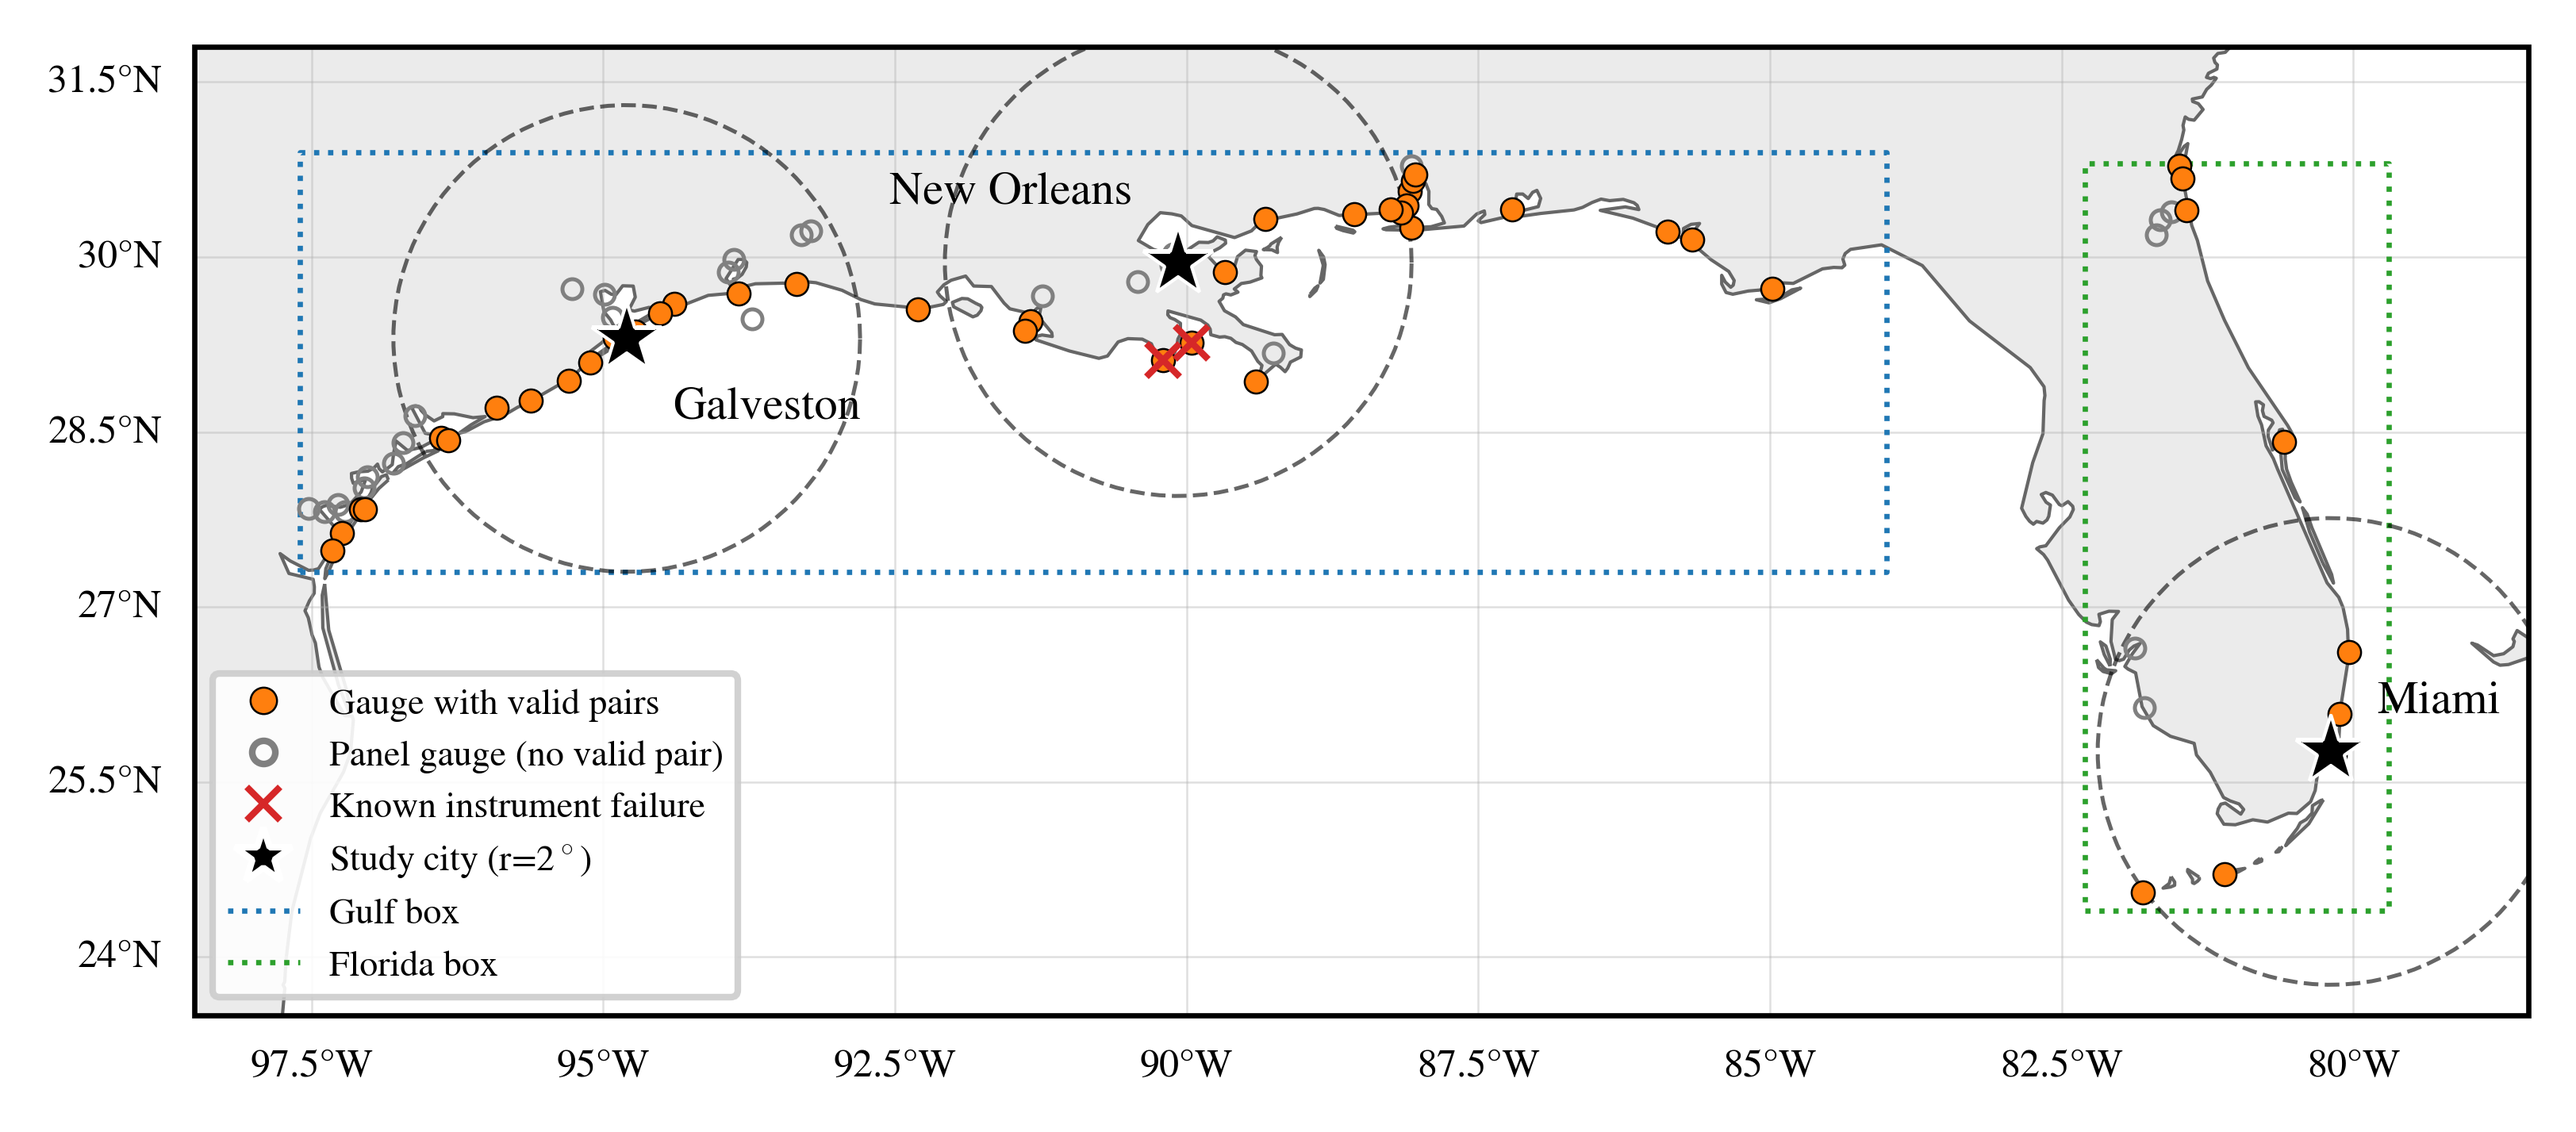
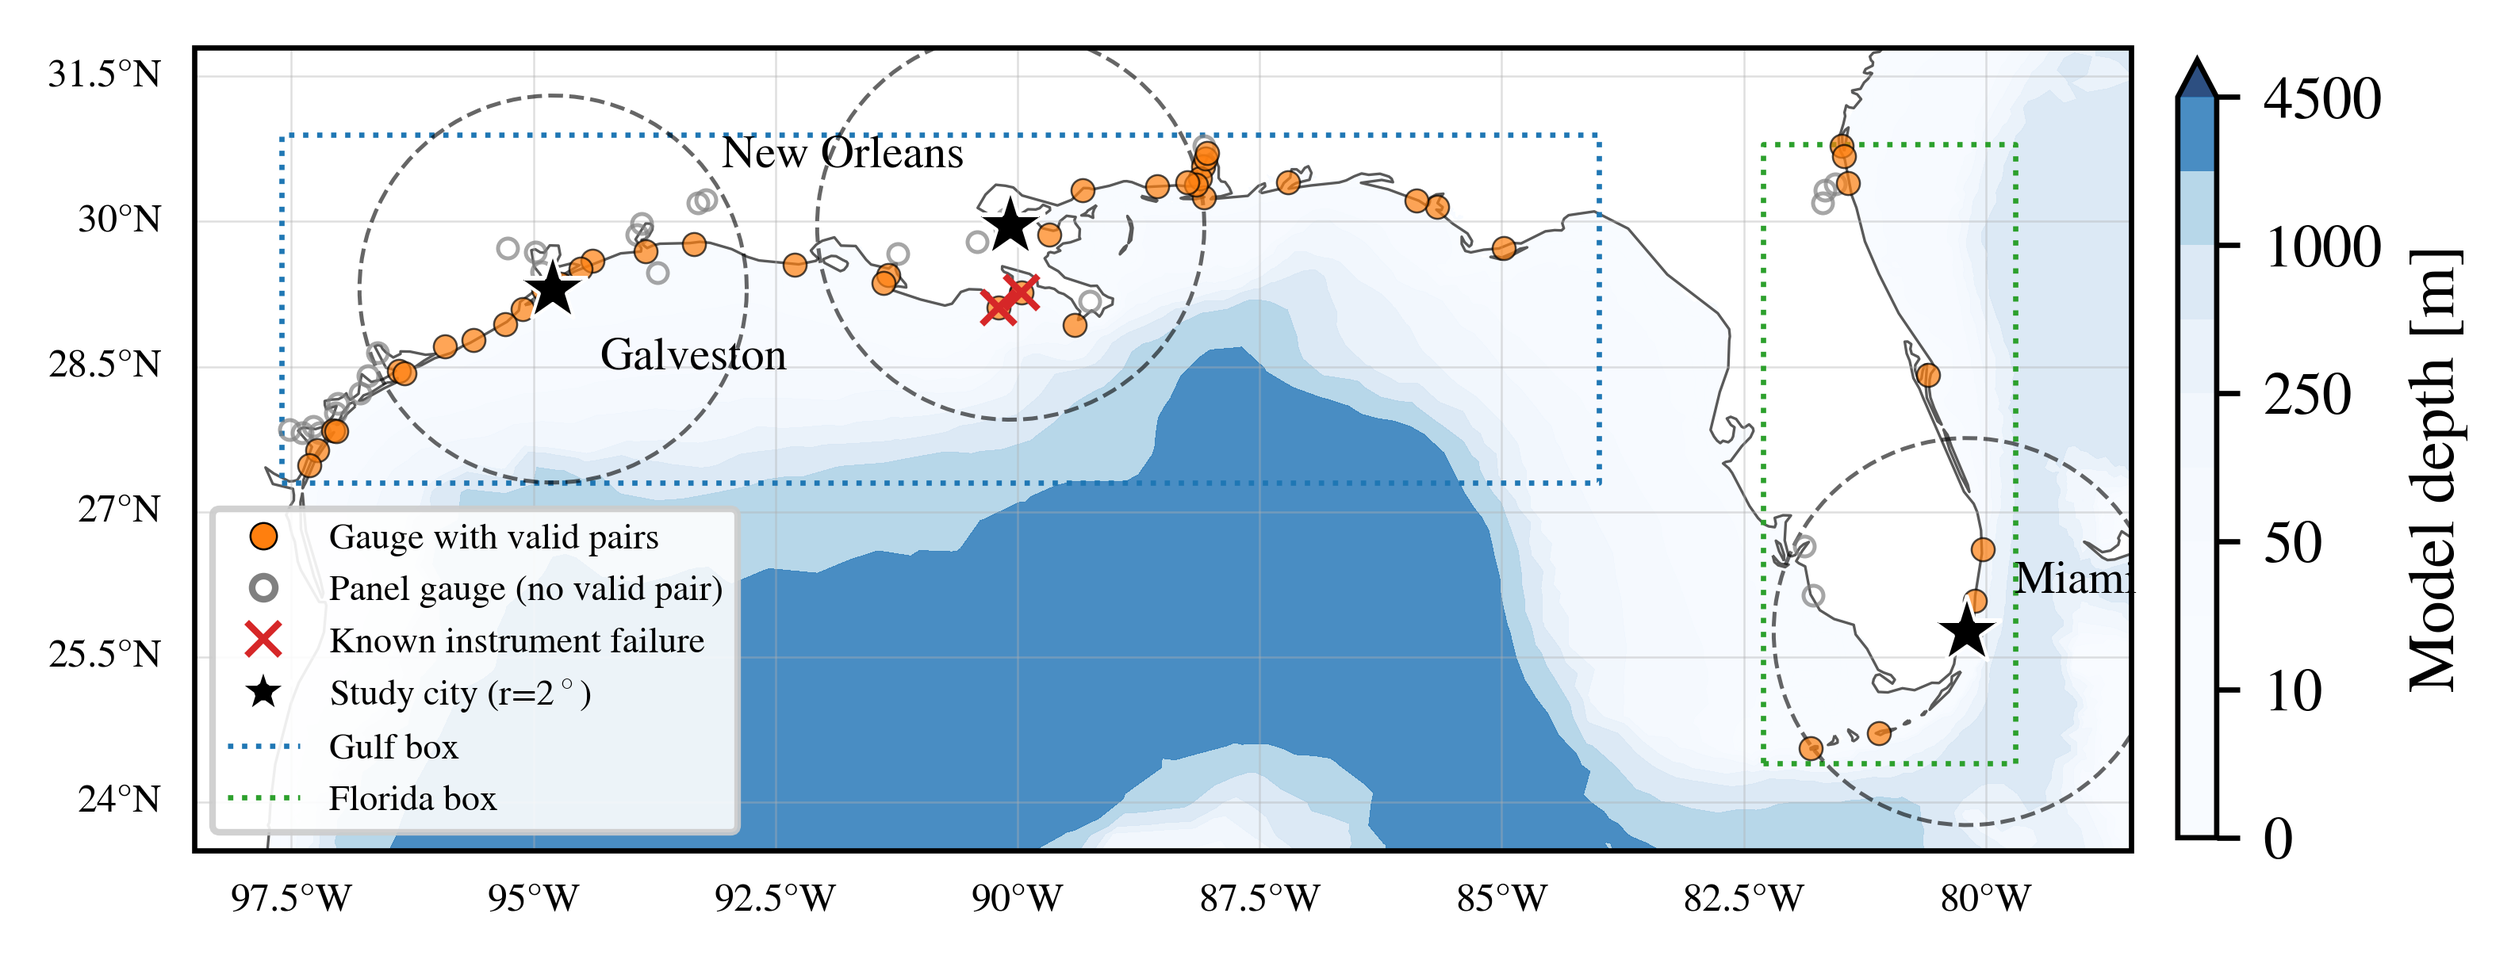
eval: per-city named-gauge maps on model bathymetry (validate.city_maps)
- plot_city_gauge_maps: one zoomed map per study city, every gauge named
  (cluster-indexed label ladder), valid/no-pair/failed markers at alpha 0.7
- _read_fort14 + _draw_mesh_bathymetry: fort.14.mid depth as the base layer
  of BOTH map types (tricontourf, Blues, model land gray, faint element
  edges on the zoomed maps) -- the maps now show model features, not just
  geography: unmeshed water bodies render white (Lake Pontchartrain!),
  which visually explains why its gauges contribute no valid pairs, and the
  narrow Florida shelf shows why Miami barely surges
- marker alpha 0.7 across both maps (overlapping stations stay visible)

CLI: python -m adforce.eval.validate validate.city_maps=true
Outputs: img/comp/val_gauge_map_{city}.png + <thesis>/img/comp_val_gauge_map_{city}.pdf

diff --git a/adforce/eval/validate.py b/adforce/eval/validate.py
@@ -596,6 +596,53 @@ CITY_POINTS = {
     "miami": (-80.1918, 25.7617),
 }
 
+_MESH_CACHE: Dict[str, tuple] = {}
+
+
+def _read_fort14(resolution: str = "mid"):
+    """EC95d mesh from ``adforce/setup/fort.14.<res>`` as
+    ``(lon, lat, depth, triangles)`` (depth positive down; 0-based tris)."""
+    if resolution in _MESH_CACHE:
+        return _MESH_CACHE[resolution]
+    from adforce.constants import SETUP_PATH
+
+    path = os.path.join(SETUP_PATH, f"fort.14.{resolution}")
+    with open(path) as f:
+        f.readline()  # description
+        ne, npt = (int(v) for v in f.readline().split()[:2])
+        nodes = np.loadtxt((next(f) for _ in range(npt)), usecols=(1, 2, 3))
+        tris = (
+            np.loadtxt((next(f) for _ in range(ne)), dtype=int, usecols=(2, 3, 4)) - 1
+        )
+    _MESH_CACHE[resolution] = (nodes[:, 0], nodes[:, 1], nodes[:, 2], tris)
+    return _MESH_CACHE[resolution]
+
+
+def _draw_mesh_bathymetry(ax, plt, transform=None, edges: bool = True):
+    """Model bathymetry as the map base: tricontourf of fort.14 depth (Blues,
+    shallow light -> deep dark), model land (depth <= 0) in gray, and faint
+    element edges so mesh resolution is visible. Returns the contour set for
+    a colorbar, or None when the mesh is unavailable."""
+    try:
+        lon, lat, depth, tris = _read_fort14()
+    except Exception as e:  # pragma: no cover - deck availability
+        print(f"(no fort.14 mesh layer: {e})")
+        return None
+    import matplotlib.tri as mtri
+
+    kw = {"transform": transform} if transform is not None else {}
+    tri = mtri.Triangulation(lon, lat, tris)
+    ax.tricontourf(  # model land
+        tri, depth, levels=[depth.min() - 1.0, 0.0], colors=["0.92"], zorder=0, **kw
+    )
+    levels = [0, 5, 10, 20, 50, 100, 250, 500, 1000, 2000, 4500]
+    cs = ax.tricontourf(
+        tri, depth, levels=levels, cmap="Blues", extend="max", zorder=0.4, alpha=0.85, **kw
+    )
+    if edges:
+        ax.triplot(tri, color="0.5", lw=0.08, alpha=0.25, zorder=0.6, **kw)
+    return cs
+
 
 def plot_failures(n_panels: int = 6, refresh: bool = False) -> None:
     """Per-city worst-case example panels (robustness view).
@@ -772,19 +819,20 @@ def plot_gauge_map(max_deg: float = 2.0) -> None:
 
         fig = plt.figure(figsize=get_dim(ratio=0.45))
         ax = plt.axes(projection=ccrs.PlateCarree())
-        ax.add_feature(cfeature.LAND.with_scale("50m"), facecolor="0.92", zorder=0)
         ax.add_feature(
-            cfeature.COASTLINE.with_scale("50m"), lw=0.5, edgecolor="0.4", zorder=1
+            cfeature.COASTLINE.with_scale("50m"), lw=0.4, edgecolor="0.35", zorder=1
         )
         gl = ax.gridlines(draw_labels=True, lw=0.3, alpha=0.4)
         gl.top_labels = gl.right_labels = False
         gl.xlabel_style = gl.ylabel_style = {"size": 6}
+        cs = _draw_mesh_bathymetry(ax, plt, transform=ccrs.PlateCarree(), edges=False)
     except Exception as e:  # pragma: no cover - cartopy/data availability
         print(f"(no cartopy coastline: {e})")
         fig, ax = plt.subplots(figsize=get_dim(ratio=0.45))
         ax.set_xlabel("Longitude [$^\\circ$E]")
         ax.set_ylabel("Latitude [$^\\circ$N]")
         ax.grid(alpha=0.3)
+        cs = _draw_mesh_bathymetry(ax, plt, edges=False)
 
     for box, label, color in (
         (C.GAUGE_BOX, "Gulf box", "tab:blue"),
@@ -809,9 +857,9 @@ def plot_gauge_map(max_deg: float = 2.0) -> None:
                 continue
             seen.add(sid)
             if sid in valid_sids:
-                ax.plot(lon, lat, "o", ms=3.5, color="tab:orange", mec="k", mew=0.3, zorder=4)
+                ax.plot(lon, lat, "o", ms=3.5, color="tab:orange", mec="k", mew=0.3, alpha=0.7, zorder=4)
             else:
-                ax.plot(lon, lat, "o", ms=3, mfc="none", mec="0.5", mew=0.6, zorder=3)
+                ax.plot(lon, lat, "o", ms=3, mfc="none", mec="0.5", mew=0.6, alpha=0.7, zorder=3)
             if sid in failed_sids:
                 ax.plot(lon, lat, "x", ms=5, color="tab:red", mew=1.0, zorder=5)
 
@@ -861,6 +909,8 @@ def plot_gauge_map(max_deg: float = 2.0) -> None:
     else:
         ax.set_xlim(-98.5, -78.5)
         ax.set_ylim(23.5, 31.8)
+    if cs is not None:
+        fig.colorbar(cs, ax=ax, shrink=0.75, pad=0.02, label="Model depth [m]")
     _savefig(
         fig,
         [
@@ -869,6 +919,121 @@ def plot_gauge_map(max_deg: float = 2.0) -> None:
         ],
     )
     plt.close(fig)
+
+
+def plot_city_gauge_maps(max_deg: float = 2.0) -> None:
+    """Per-city zoomed gauge maps with every gauge NAMED (reference figures).
+
+    One map per study city, extent = catchment circle + margin, each gauge
+    labelled with its CO-OPS name (orange = contributes valid pairs, open =
+    panel gauge without one, red cross = KNOWN_FAILED). Labels use a simple
+    greedy vertical stagger so dense clusters (e.g. the Mississippi coast)
+    stay legible.
+    """
+    csv = os.path.join(C.OUT_PATH, "val_summary.csv")
+    if not os.path.exists(csv):
+        raise SystemExit(f"{csv} not found: run `python -m adforce.eval.validate` first")
+    df = pd.read_csv(csv)
+    df["sid"] = df["sid"].astype(str)
+    valid_sids = set(df[df.valid.astype(bool)].sid)
+    failed_sids = {sid for _, sid in C.KNOWN_FAILED}
+    gauges = {
+        str(sid): (name, lat, lon)
+        for box in (C.GAUGE_BOX, C.FLORIDA_BOX)
+        for sid, name, lat, lon in gulf_gauges(box)
+    }
+
+    plt = _setup_plt()
+    from sithom.plot import get_dim
+
+    for city, (clo, cla) in CITY_POINTS.items():
+        try:
+            import cartopy.crs as ccrs
+            import cartopy.feature as cfeature
+
+            fig = plt.figure(figsize=get_dim(ratio=0.85))
+            ax = plt.axes(projection=ccrs.PlateCarree())
+            ax.add_feature(
+                cfeature.COASTLINE.with_scale("10m"), lw=0.5, edgecolor="0.35", zorder=1
+            )
+            gl = ax.gridlines(draw_labels=True, lw=0.3, alpha=0.4)
+            gl.top_labels = gl.right_labels = False
+            gl.xlabel_style = gl.ylabel_style = {"size": 6}
+            cs = _draw_mesh_bathymetry(ax, plt, transform=ccrs.PlateCarree(), edges=True)
+        except Exception as e:  # pragma: no cover
+            print(f"(no cartopy coastline: {e})")
+            fig, ax = plt.subplots(figsize=get_dim(ratio=0.85))
+            ax.grid(alpha=0.3)
+            cs = _draw_mesh_bathymetry(ax, plt, edges=True)
+
+        m = max_deg + 0.45
+        ax.plot(clo, cla, "*", ms=13, color="k", mec="w", mew=0.5, zorder=6)
+        theta = np.linspace(0, 2 * np.pi, 100)
+        ax.plot(
+            clo + max_deg * np.cos(theta),
+            cla + max_deg * np.sin(theta),
+            "k--",
+            lw=0.6,
+            alpha=0.6,
+            zorder=2,
+        )
+
+        # gauges in extent, sorted by latitude for the label stagger
+        local = sorted(
+            (
+                (sid, n, la, lo)
+                for sid, (n, la, lo) in gauges.items()
+                if abs(lo - clo) <= m and abs(la - cla) <= m
+            ),
+            key=lambda t: -t[2],
+        )
+        # cluster-indexed offset ladder: the k-th label inside a congested
+        # patch gets the k-th vertical offset, so e.g. the six Mobile-Bay
+        # gauges fan out instead of overprinting
+        DY = (3, 12, -11, 21, -20, 30, -29, 39)
+        placed = []
+        for sid, name, la, lo in local:
+            if sid in valid_sids:
+                ax.plot(lo, la, "o", ms=4, color="tab:orange", mec="k", mew=0.3, alpha=0.7, zorder=4)
+            else:
+                ax.plot(lo, la, "o", ms=3.5, mfc="none", mec="0.5", mew=0.6, alpha=0.7, zorder=3)
+            if sid in failed_sids:
+                ax.plot(lo, la, "x", ms=6, color="tab:red", mew=1.0, zorder=5)
+            near = sum(
+                1 for pla, plo in placed if abs(pla - la) < 0.16 and abs(plo - lo) < 1.6
+            )
+            dy = DY[min(near, len(DY) - 1)]
+            ha = "right" if lo > clo + m - 0.75 else "left"  # keep inside the frame
+            placed.append((la, lo))
+            ax.annotate(
+                name[:28].rstrip(", "),
+                (lo, la),
+                textcoords="offset points",
+                xytext=(-5 if ha == "right" else 5, dy),
+                ha=ha,
+                fontsize=5,
+                zorder=7,
+            )
+        ax.set_title(
+            f"{city.replace('_', ' ').title()} gauge panel "
+            f"(r={max_deg:g}$^\\circ$; filled = valid pairs)",
+            fontsize=8,
+        )
+        if hasattr(ax, "set_extent"):
+            ax.set_extent([clo - m, clo + m, cla - m, cla + m])
+        else:
+            ax.set_xlim(clo - m, clo + m)
+            ax.set_ylim(cla - m, cla + m)
+        if cs is not None:
+            fig.colorbar(cs, ax=ax, shrink=0.8, pad=0.02, label="Model depth [m]")
+        _savefig(
+            fig,
+            [
+                os.path.join(C.FIGURE_PATH, f"val_gauge_map_{city}.png"),
+                os.path.join(C.PAPER_IMG_PATH, f"comp_val_gauge_map_{city}.pdf"),
+            ],
+        )
+        plt.close(fig)
 
 
 _LEGACY_FLAGS = {
@@ -886,6 +1051,9 @@ def main(cfg: DictConfig) -> None:
     v = cfg.validate
     if v.gauge_map:
         plot_gauge_map(max_deg=v.city_radius_deg)
+        return
+    if v.city_maps:
+        plot_city_gauge_maps(max_deg=v.city_radius_deg)
         return
     if v.city_key:
         plot_city_key(
